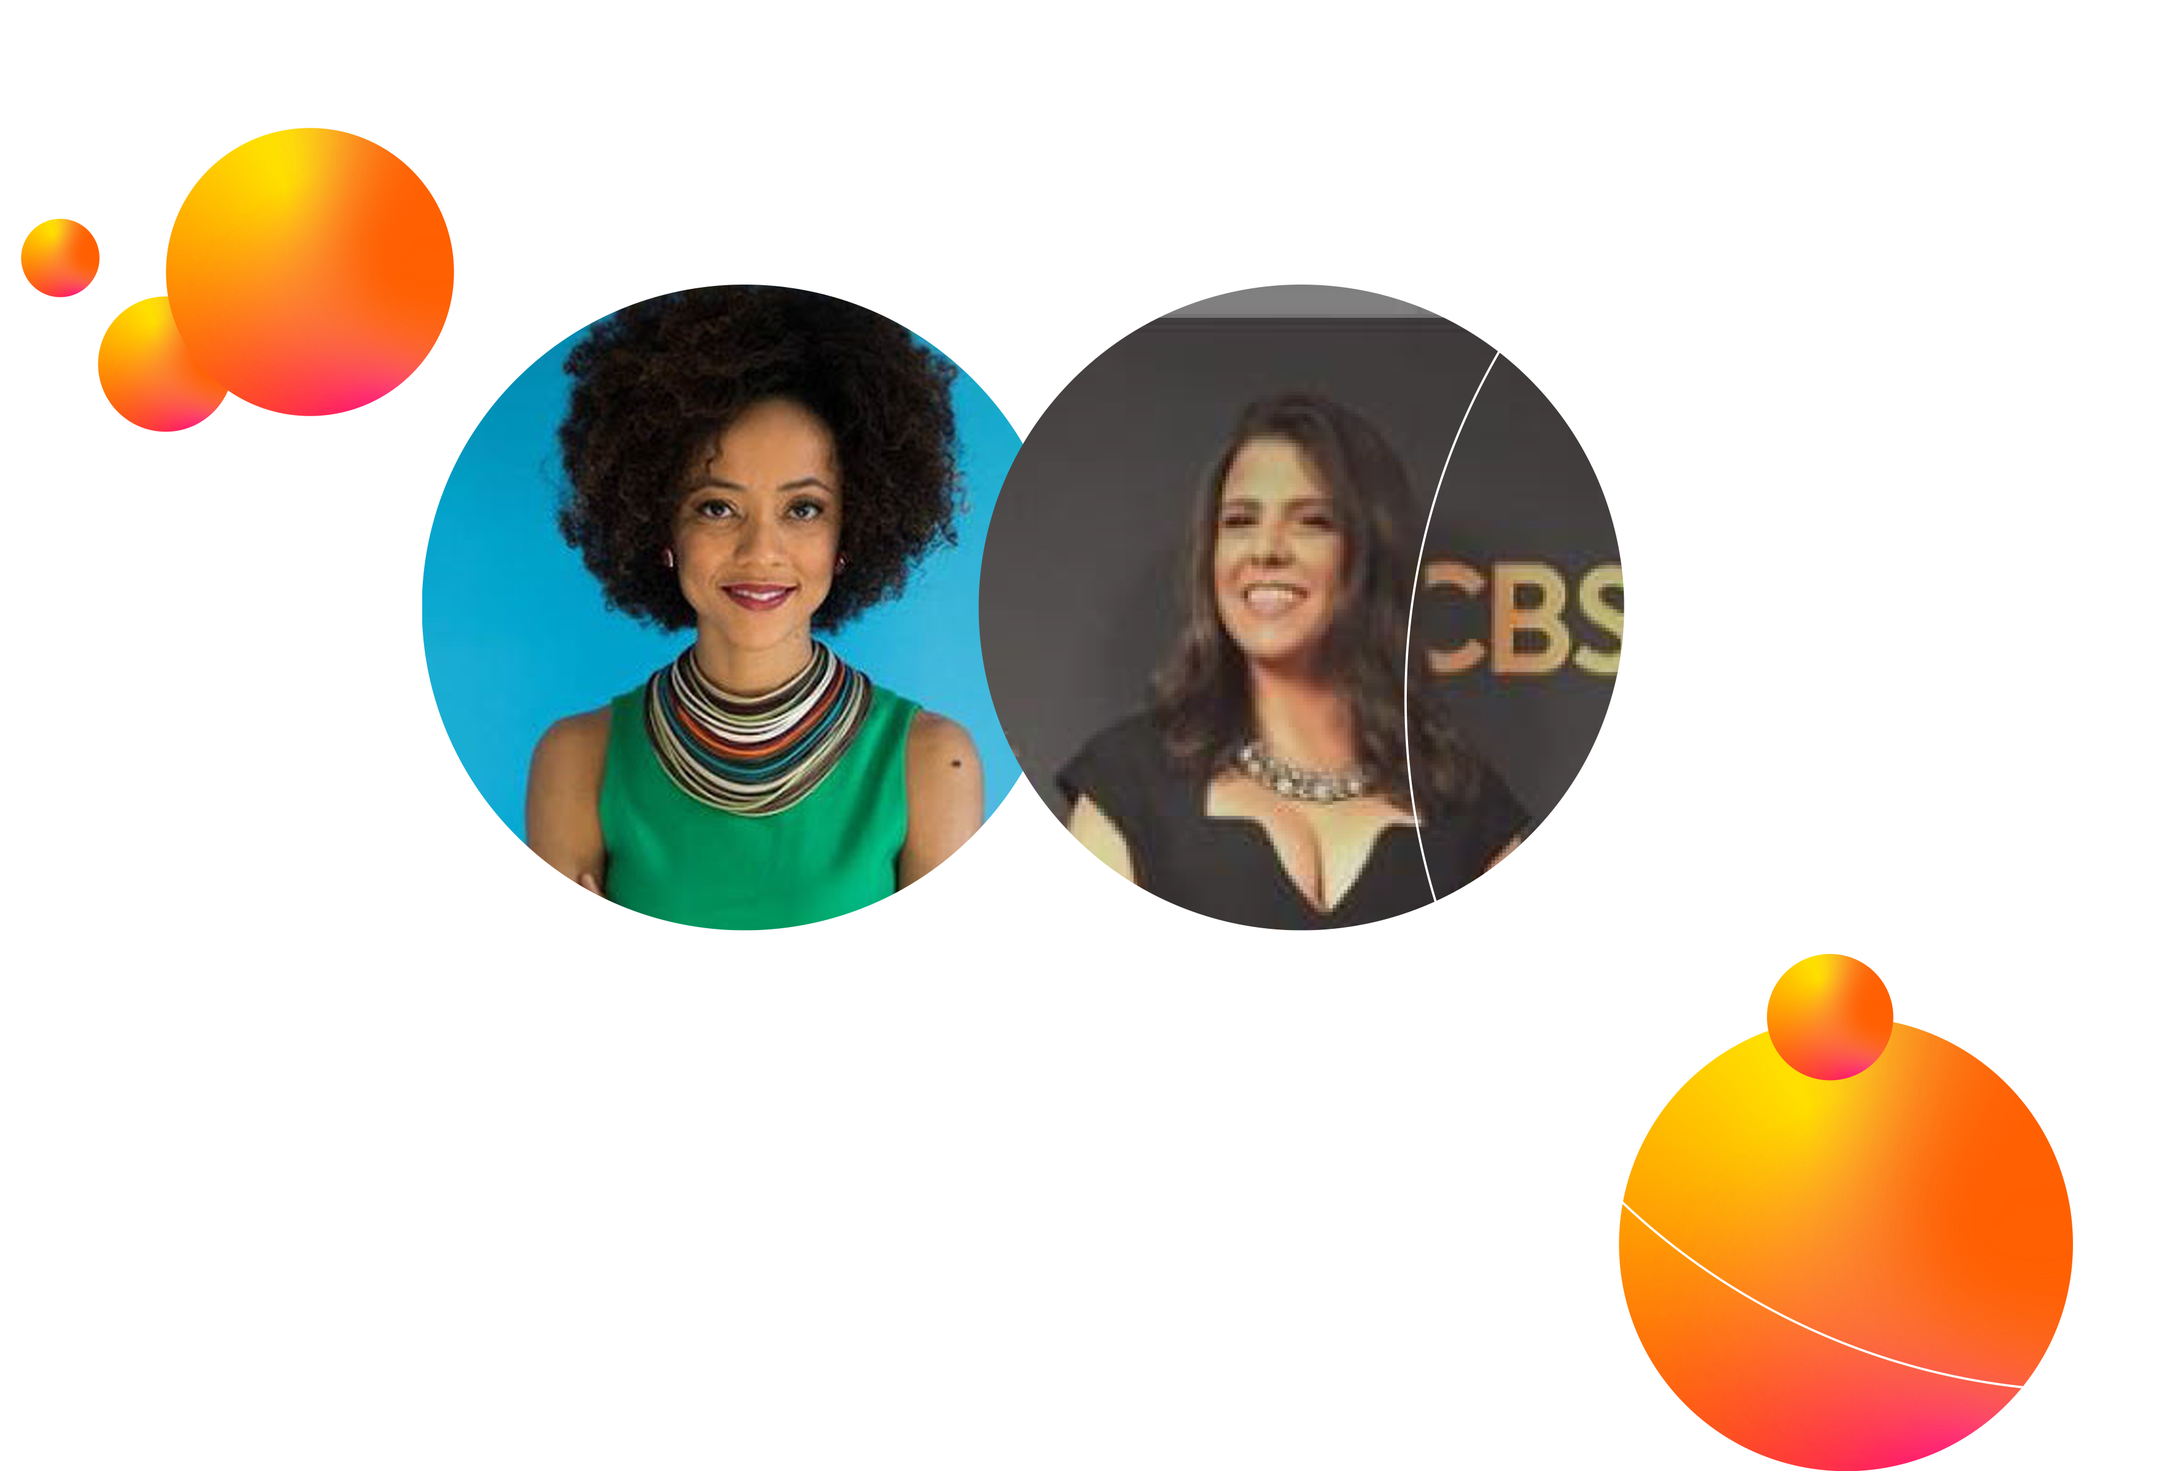
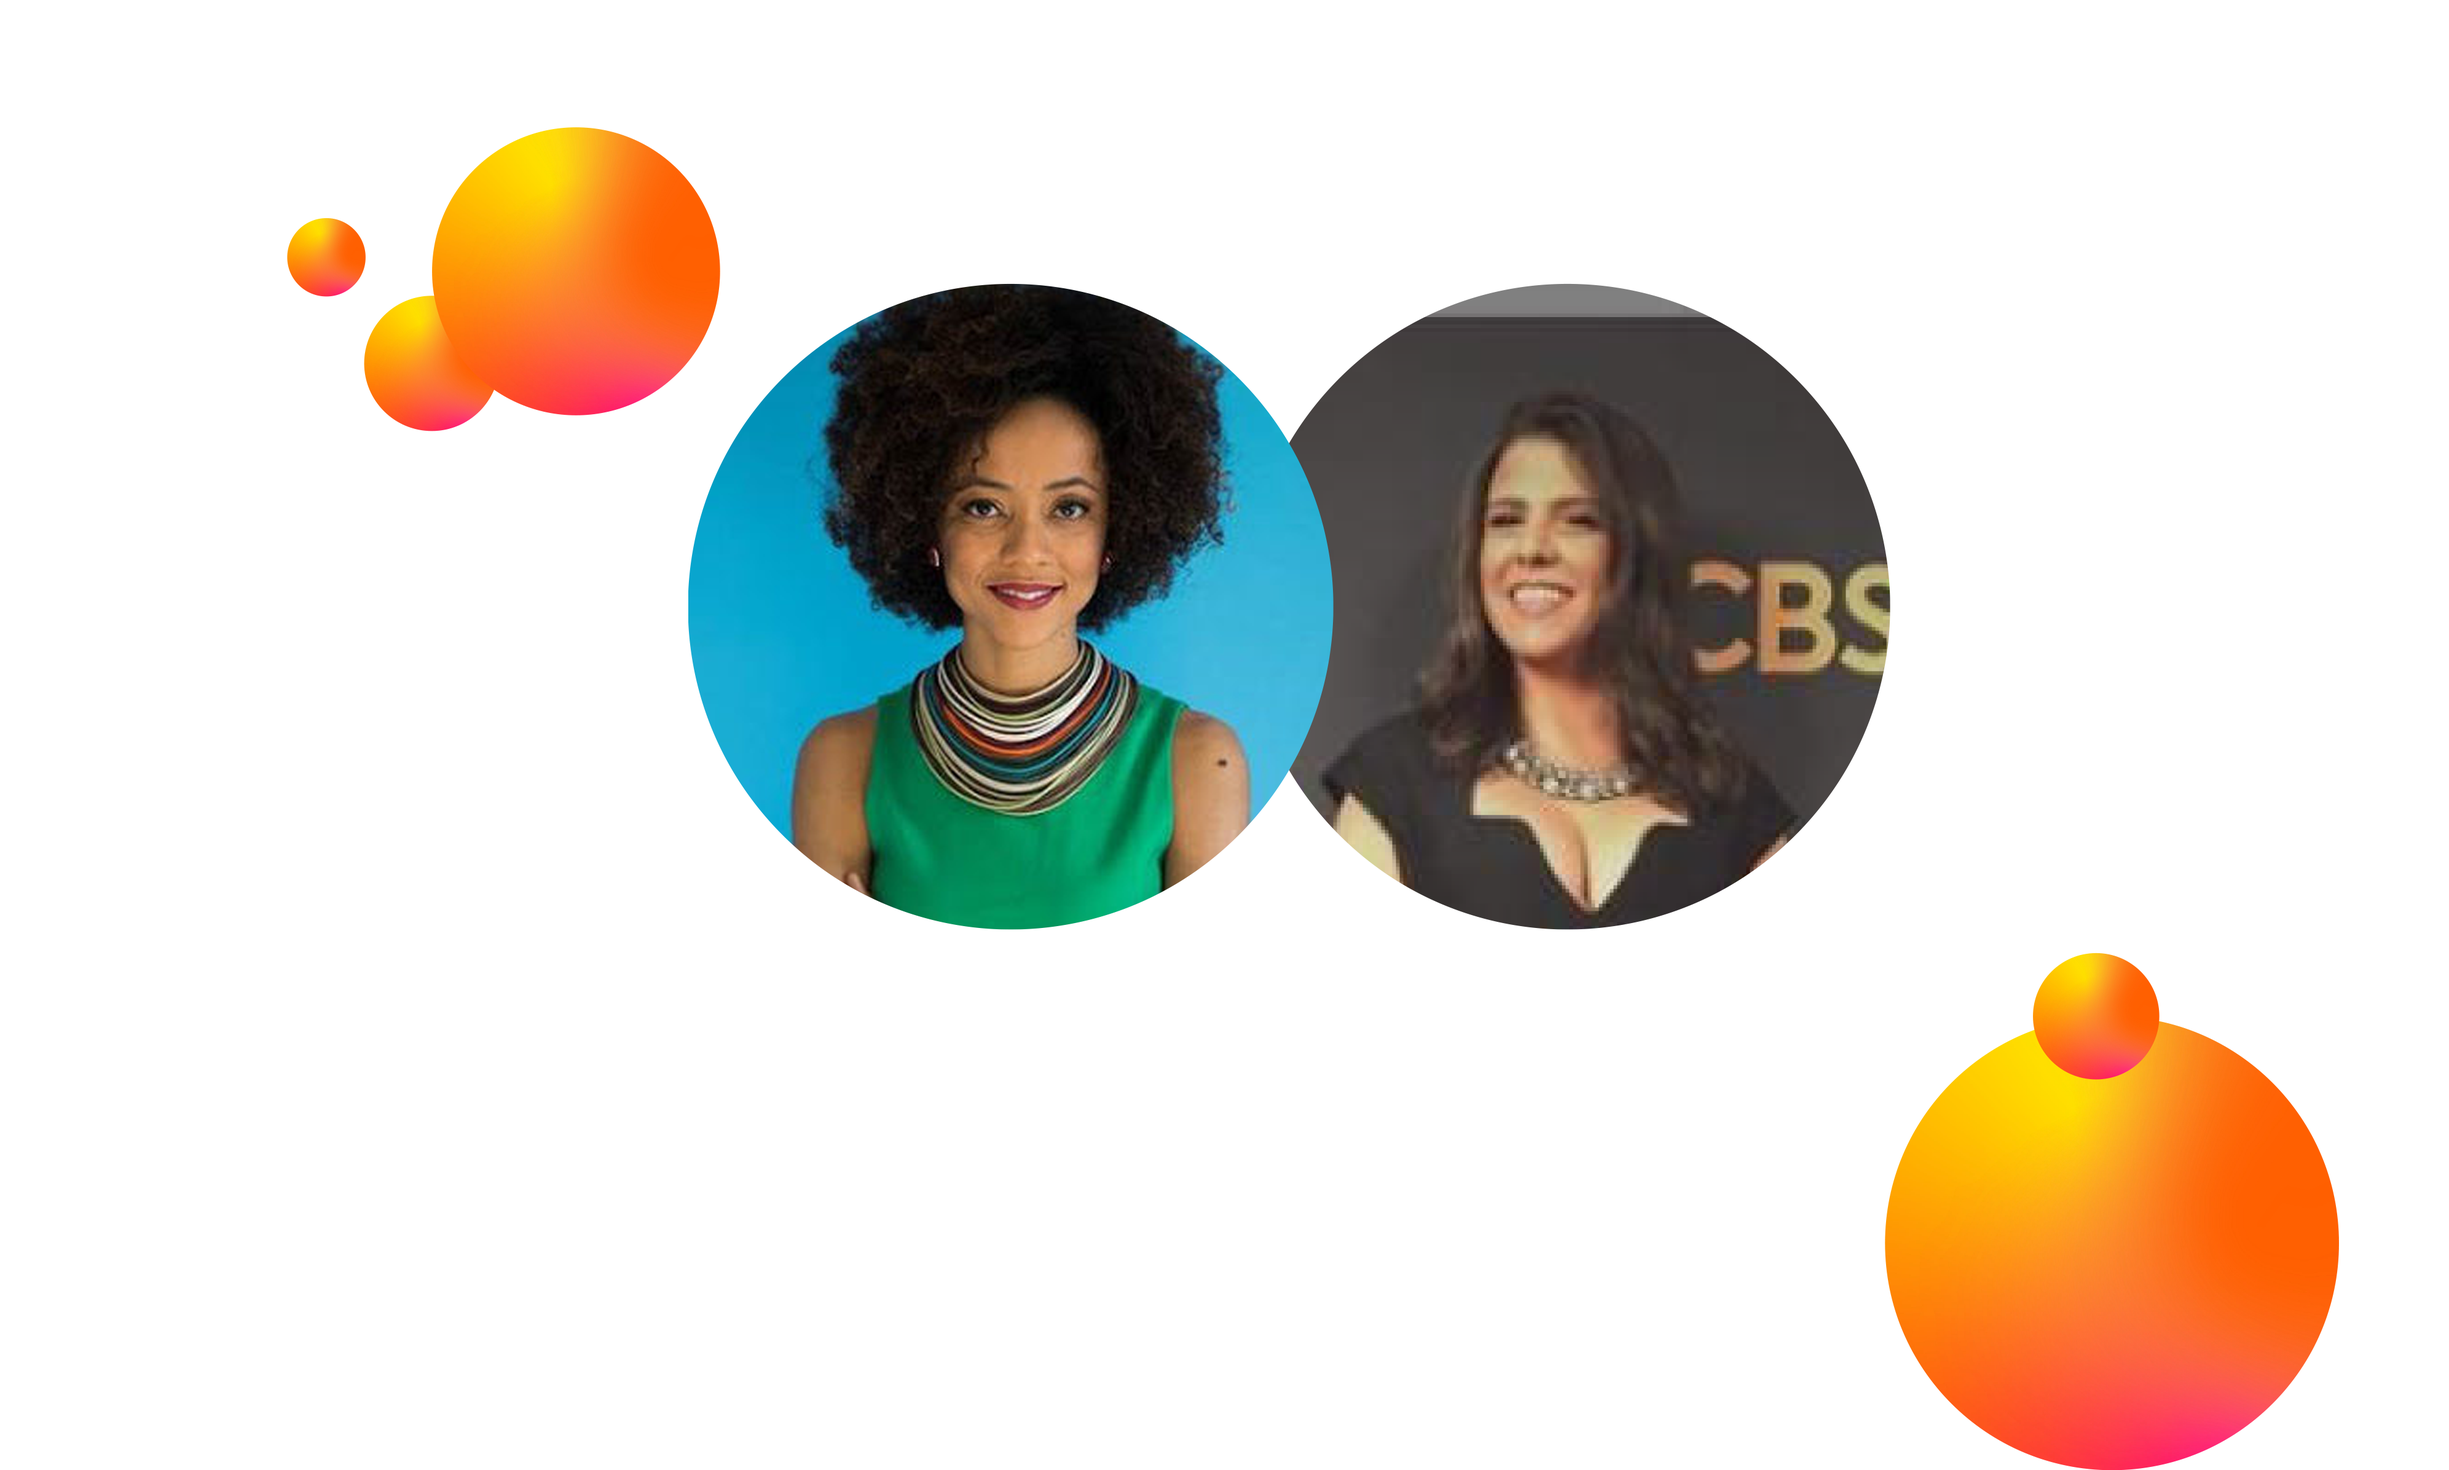
Landpage ajustments

Changed region(s): [[0.0, 0.0619, 0.7812, 0.6497], [0.7188, 0.6497, 0.9375, 1.0], [0.9375, 0.7734, 0.9688, 0.9281]]

diff --git a/assets/css/landpage.css b/assets/css/landpage.css
@@ -13,18 +13,17 @@ img {
     width: 100%;
 }
 .header__logo {
-    width: 200px;
+    width: 50vw;
 }
 .vid_iframe {
     position: absolute;
     width: 90%;
-    height: 60%;
     margin: 40% 0 0 10%;
     box-sizing: border-box;
 }
 .vid_iframe iframe {
     width: 90%;
-    height: 60%;
+    height: 65vw;
 }
 .background-h {
     width: 100%;
@@ -162,8 +161,9 @@ img {
     text-align: center;
 }
 .people__description {
+    width: 100%;
     color: #5c5c5c;
-    padding: 2em;
+    padding: 0 1em;
 }
 .people__img_desktop {
     display: none;
@@ -197,7 +197,7 @@ img {
     margin-top: 60%;
 }
 .footer__logo {
-    width: 180px;
+    width: 50vw;
 }
 .footer-description {
     position: absolute;
@@ -245,7 +245,7 @@ footer {
         display: block;
     }
     .header__logo {
-        width: 250px;
+        width: 30vw;
     }
     .background-h {
         height: 73vw;
@@ -263,7 +263,7 @@ footer {
     }
     .vid_iframe iframe {
         width: 84%;
-        height: 87%;
+        height: 43vw;
     }
 
     /* SECTION */
@@ -307,7 +307,7 @@ footer {
     }
     .description p {
         color: #5c5c5c;
-        font-size: 16px;
+        font-size: 1.3vw;
     }
 
     /* UPLOAD */
@@ -381,30 +381,27 @@ footer {
     }
     .people_articless {
         display: grid;
-        grid-template-columns: repeat(2, 530px);
+        grid-template-columns: repeat(2, 500px);
         float: left;
         margin-top: -10vw;
-        margin-left: calc(50% - 530px);
+        margin-left: calc(50% - 500px);
     }
     .people__img {
-        width: 480px !important;
+        width: 48vw !important;
         margin-bottom: 10%;
     }
-    .people__description {
-        padding: 0;
-    }
     .people_1 .people__description {
-        padding: 0 5em;
+        padding: 0 2em;
     }
     .people__description h2{
         color: #ff5f00;
     }
     .people__description h3 {
-        font-size: 14px;
+        font-size: 1.3vw;
     }
     .people__description p {
-        margin-top: 12px;
-        font-size: 16px;
+        margin-top: 2vw;
+        font-size: 1.3vw;
     }
     .people__description8 {
         float: left;
@@ -422,24 +419,20 @@ footer {
         width: 50%;
     }
     .people_r_a {
-        margin-top: 10em !important;
+        margin-top: 14vw !important;
     }
     .people_l_a {
         margin-top: -2em !important;
     }
     .people__img_desktop {
         display: block;
-        margin: -8em 0 0 60px;
-        width: 600px !important;
-        overflow: hidden;
-        box-sizing: border-box;
+        margin: 2em 0 0 0;
+        width: 50vw !important;
     }
-    
-    
 
     /* FOOTER DESCRIPTION */
     .footer_content {
-        margin-top: 10%;
+        margin: 0;
     }
     .footer-description {
         float: left;
@@ -448,17 +441,16 @@ footer {
         margin: -4vw 0 -50vw 0;
     }
     .footer-description__img2 {
-        width: 90%;
+        width: 100%;
         position: relative;
         display: flex;
         bottom: 0;
-        margin-left: 10%;
     }
     .footer-description__img {
         display: none;
     }
     .footer__logo {
-        width: 350px;
+        width: 40vw;
     }
     footer h1{
         color: #fff;
